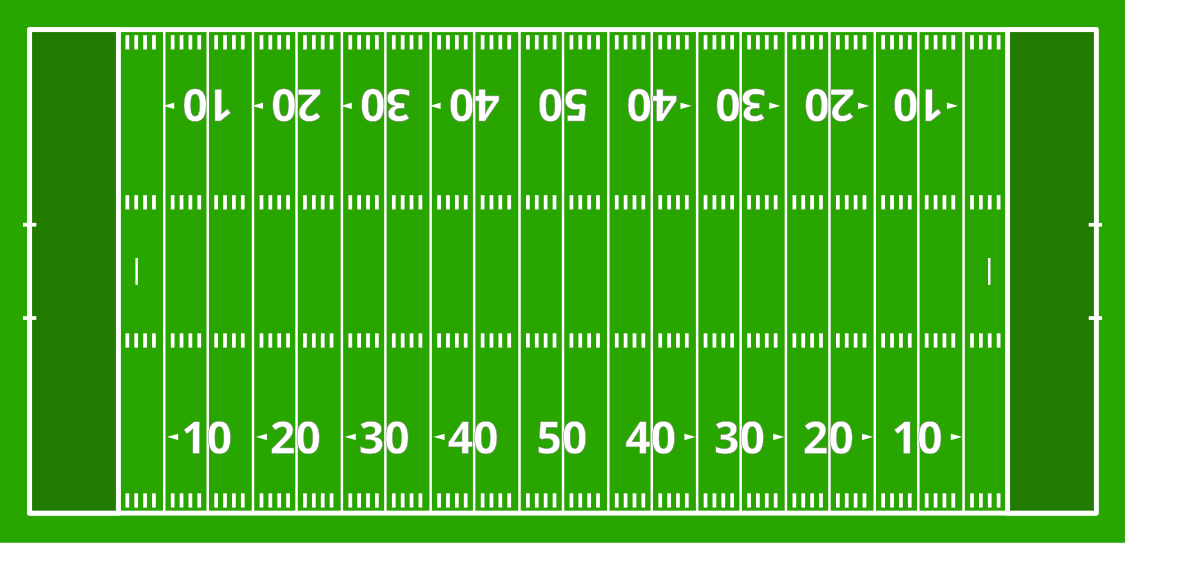
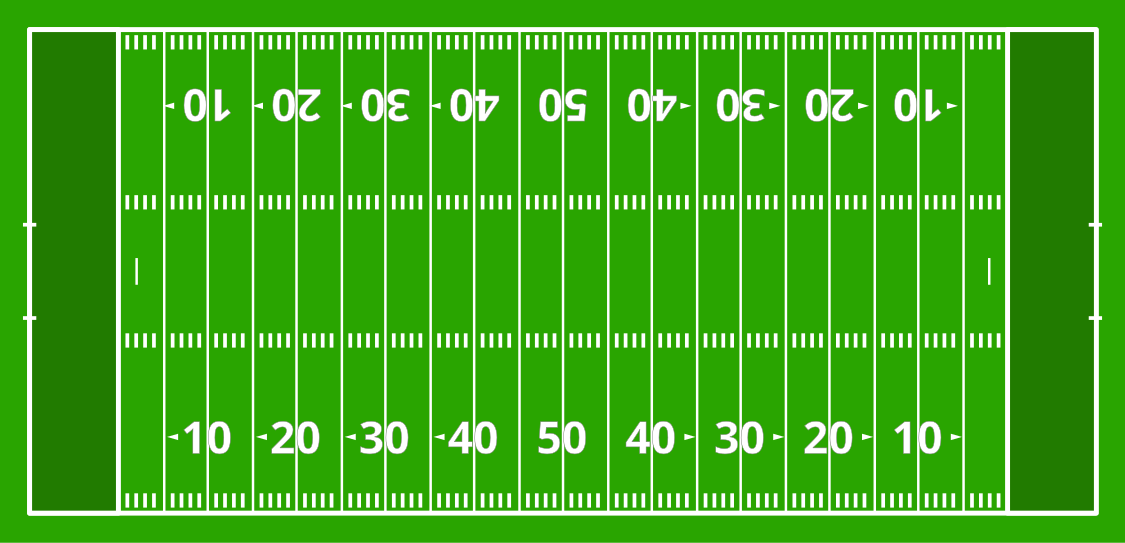
cropped field texture, function refactor

diff --git a/src/lib/FieldPlot.svelte b/src/lib/FieldPlot.svelte
@@ -11,7 +11,9 @@
 		Second: number;
 		ToGo: number;
 		Yards: number;
-		Mesh: THREE.Mesh<THREE.BoxGeometry, THREE.MeshBasicMaterial, THREE.Object3DEventMap>;
+		Mesh:
+			| THREE.Mesh<THREE.BoxGeometry, THREE.MeshBasicMaterial, THREE.Object3DEventMap>
+			| undefined;
 	}
 
 	interface Field {
@@ -53,7 +55,7 @@
 		}
 	});
 
-	const initScene = (width: number, height: number) => {
+	function initScene(width: number, height: number) {
 		// initialize renderer and append to DOM
 		renderer = new THREE.WebGLRenderer({ antialias: true });
 		renderer.setSize(width, height);
@@ -76,9 +78,9 @@
 
 		window.addEventListener('resize', handleResize);
 		initialized = true;
-	};
+	}
 
-	const animate = () => {
+	function animate() {
 		fields.forEach((field) => {
 			// field.Mesh.rotation.x -= 0.005;
 			// mesh.rotation.z += 0.005;
@@ -93,29 +95,26 @@
 		camera!.rotation.z = cameraRotZ;
 
 		render();
-	};
+	}
 
-	const render = () => {
+	function render() {
 		renderer.clear();
 		renderer.render(scene, camera!);
-	};
+	}
 
-	const handleResize = () => {
+	function handleResize() {
 		camera!.aspect = renderWidth / renderHeight;
 		camera!.updateProjectionMatrix();
 		renderer.setSize(renderWidth, renderHeight);
-	};
+	}
 
-	const initModels = () => {
+	function initModels() {
 		fields = [];
 		const testField = $state(createField('home', 'away'));
 		$inspect(testField.Plays);
+	}
 
-		fields.push(testField);
-		scene.add(testField.Mesh);
-	};
-
-	const createField = (home: string, away: string) => {
+	function createField(home: string, away: string) {
 		const planeDimensions = [1200, 579];
 		const geometery = new THREE.PlaneGeometry(1200 / 579, 1);
 		const loader = new THREE.TextureLoader();
@@ -128,7 +127,9 @@
 		const material = new THREE.MeshBasicMaterial({
 			map: texture
 		});
+
 		const plane = new THREE.Mesh(geometery, material);
+
 		const newField: Field = {
 			HomeTeam: home,
 			AwayTeam: away,
@@ -136,47 +137,51 @@
 			Plays: [],
 			PlayIndex: 0
 		};
-		return newField;
-	};
 
-	const createPlay = (
+		fields.push(newField);
+		scene.add(newField.Mesh);
+
+		return newField;
+	}
+
+	function createPlay(
 		quarter: number,
 		minute: number,
 		second: number,
 		togo: number,
 		yards: number
-	) => {
-		const geometry = new THREE.BoxGeometry(1, 5, yards);
-
-		const material = new THREE.MeshBasicMaterial({
-			color: 'red'
-		});
-		const playMesh = new THREE.Mesh(geometry, material);
-
+	) {
 		const play: Play = {
 			Quarter: quarter,
 			Minute: minute,
 			Second: second,
 			ToGo: togo,
 			Yards: yards,
-			Mesh: playMesh
+			Mesh: undefined
 		};
 		return play;
-	};
+	}
 
-	const addPlayToField = (play: Play) => {
-		fields.forEach((field) => {
-			field.Plays.push(play);
+	function addPlayToField(play: Play, field: Field) {
+		const width = field.Mesh.geometry.getAttribute('width');
+		const height = field.Mesh.geometry.getAttribute('height');
+
+		const geometry = new THREE.BoxGeometry(1, play.Yards, 1);
+
+		const material = new THREE.MeshBasicMaterial({
+			color: 'red'
 		});
-	};
+		const playMesh = new THREE.Mesh(geometry, material);
+		field.Plays.push(play);
+		scene.add(playMesh);
+	}
 
-	const handleKeyDown = (event: KeyboardEvent) => {
+	function handleKeyDown(event: KeyboardEvent) {
 		if (event.key === 'Enter') {
-			debug = true;
 			const testPlay: Play = createPlay(1, 14, 59, 10, 10);
-			addPlayToField(testPlay);
+			addPlayToField(testPlay, fields[0]);
 		}
-	};
+	}
 </script>
 
 <svelte:head>
@@ -186,7 +191,7 @@
 <!-- <button on:click={addPlay}></button> -->
 <div class="flex-container">
 	<!-- {#if debug} -->
-	<div class="debugTools">
+	<!-- <div class="debugTools">
 		<h1>Position:</h1>
 		<Slider name={'x position'} min={-5} max={5} bind:value={cameraPosX} />
 		<Slider name={'y position'} min={-5} max={5} bind:value={cameraPosY} />
@@ -195,7 +200,7 @@
 		<Slider name={'x rotation'} min={-5} max={5} bind:value={cameraRotX} />
 		<Slider name={'y rotation'} min={-5} max={5} bind:value={cameraRotY} />
 		<Slider name={'z rotation'} min={-5} max={5} bind:value={cameraRotZ} />
-	</div>
+	</div> -->
 	<!-- {/if} -->
 	<div
 		class="threeJSCanvas"
@@ -213,11 +218,6 @@
 
 	div.flex-container {
 		display: flex;
-	}
-
-	div.debugTools {
-		flex: 2;
-		background-color: white;
 	}
 
 	div.threeJSCanvas {
